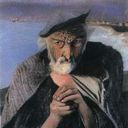
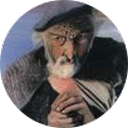
fix: table not showing properly

diff --git a/README.md b/README.md
@@ -30,10 +30,10 @@ As of now drag and drop import feature is still not available in vscode.
 
 ## Commands
 
-Key Binding   | Command                     | Description
--             | -                           | -
-`Ctrl+Shit+A` | Auto Import: Copy path      | Copy relative path
-`Ctrl+I`      | Auto Import: Paste relative | Paste relative import
+| Key Binding   | Command                     | Description           |
+|---------------|-----------------------------|-----------------------|
+| `Ctrl+Shit+A` | Auto Import: Copy path      | Copy relative path    |
+| `Ctrl+I`      | Auto Import: Paste relative | Paste relative import |
 
 ## Extension Settings
 
@@ -95,7 +95,7 @@ See [CHANGELOG] for more information.
 
 MIT
 
-[version svg]: https://vsmarketplacebadge.apphb.com/version-short/ElecTreeFrying.auto-import.svg
+[version svg]: https://vsmarketplacebadge.apphb.com/version/ElecTreeFrying.auto-import.svg
 [downloads svg]: https://vsmarketplacebadge.apphb.com/downloads/ElecTreeFrying.auto-import.svg
 [ratings svg]: https://vsmarketplacebadge.apphb.com/rating-short/ElecTreeFrying.auto-import.svg
 [package]: https://marketplace.visualstudio.com/items?itemName=ElecTreeFrying.auto-import

diff --git a/CHANGELOG.md b/CHANGELOG.md
@@ -1,5 +1,16 @@
 # Changelog
 
+## v0.1.1 (2020-3-15)
+
+### Fixes
+
+- README.md Table
+- settings.gif not showing.
+
+### Changes
+
+- Changed icon from square to circle.
+
 ## v0.1.0 (2020-3-15)
 
 ### Features
